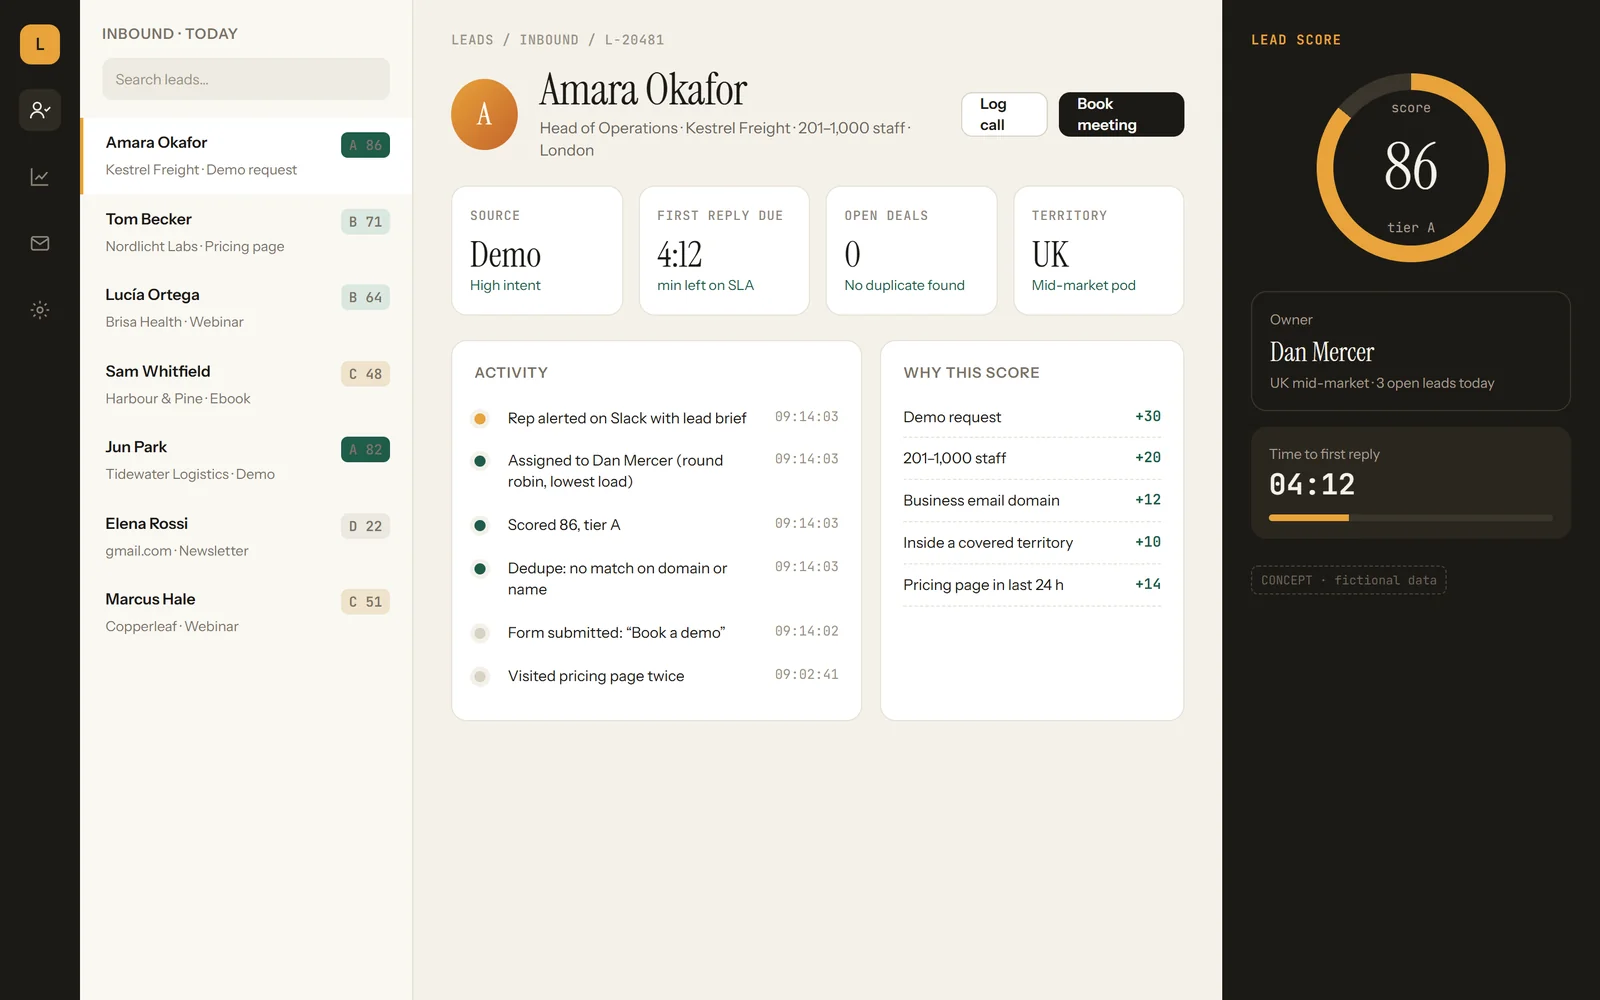
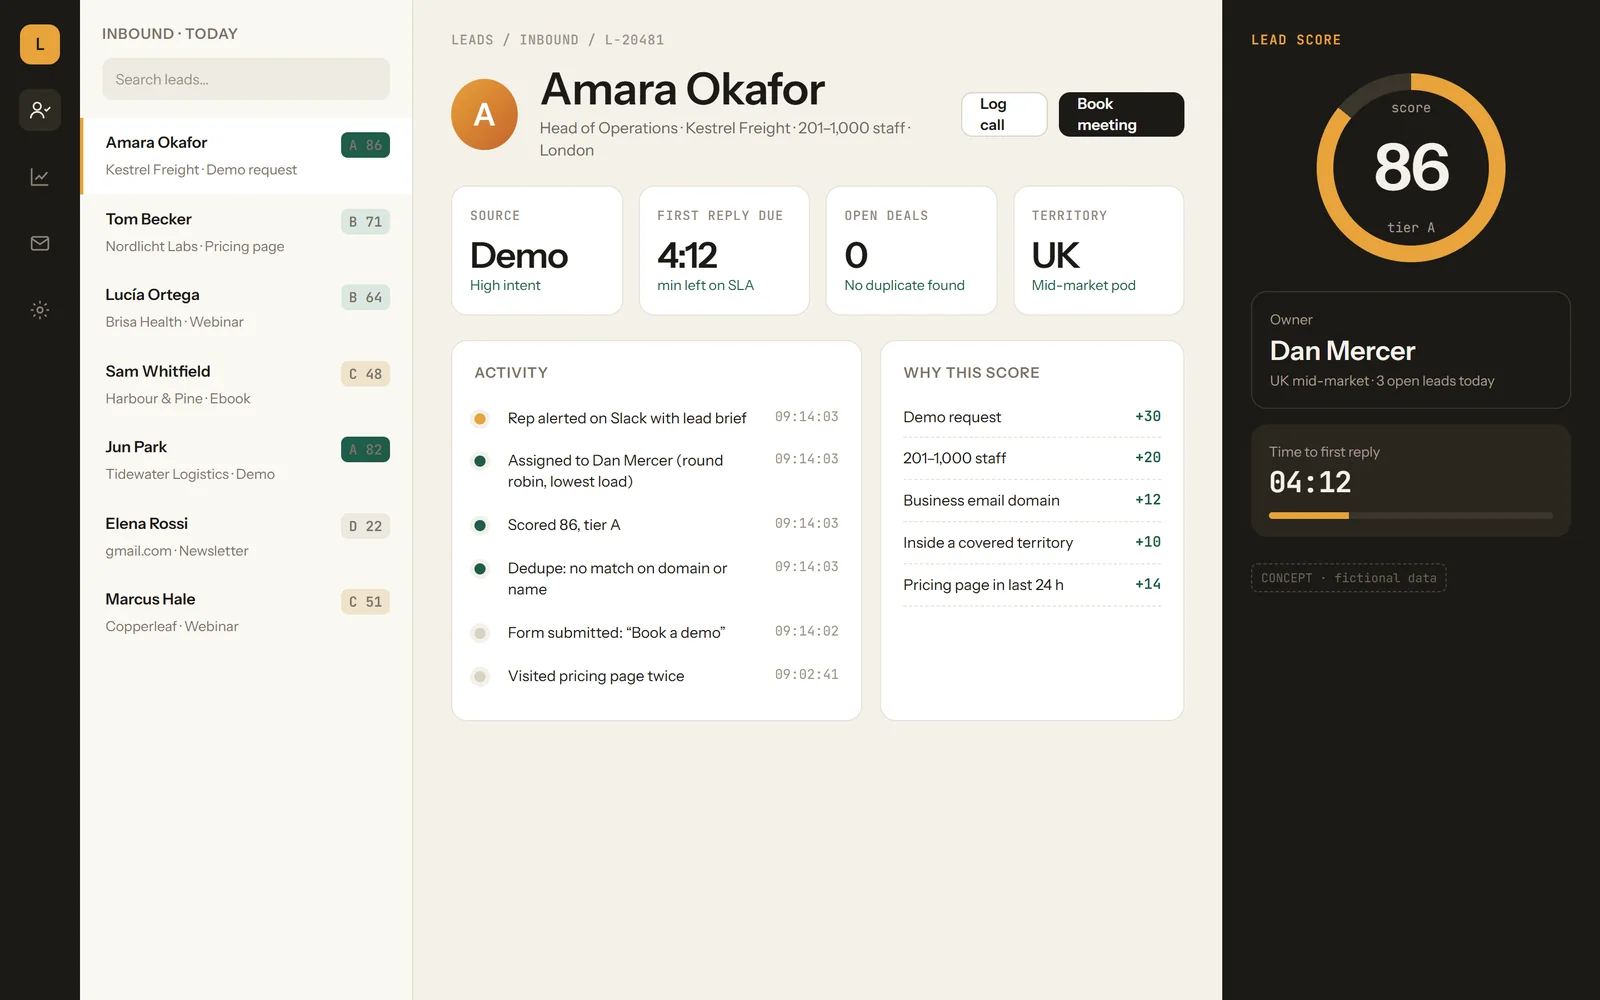
One modern sans font everywhere, GitHub button in the top bar
- Drop the serif accent font; accents are now a muted tone of the same sans
- Re-render the three UI concept screens without the serif
- GitHub button in the top bar (both pages) and in the hero; footer link stays

diff --git a/style.css b/style.css
@@ -1,7 +1,5 @@
 /* Ryno Jordaan — portfolio. Dark bento: charcoal, sand, lavender, terracotta. No framework. */
 @font-face{font-family:"Instrument Sans";src:url("fonts/InstrumentSans-normal.woff2") format("woff2");font-weight:400 700;font-display:swap}
-@font-face{font-family:"Instrument Serif";src:url("fonts/InstrumentSerif-normal.woff2") format("woff2");font-display:swap}
-@font-face{font-family:"Instrument Serif";font-style:italic;src:url("fonts/InstrumentSerif-italic.woff2") format("woff2");font-display:swap}
 @font-face{font-family:"JetBrains Mono";src:url("fonts/JetBrainsMono-normal.woff2") format("woff2");font-weight:400 700;font-display:swap}
 
 :root{
@@ -13,7 +11,6 @@
   --ok:#9fd8b5;
   --r:22px; --r-sm:14px; --gap:14px;
   --sans:"Instrument Sans",ui-sans-serif,system-ui,-apple-system,"Segoe UI",sans-serif;
-  --serif:"Instrument Serif",Georgia,serif;
   --mono:"JetBrains Mono",ui-monospace,"Cascadia Code",Consolas,monospace;
   --max:1240px;
   color-scheme:dark;
@@ -50,7 +47,8 @@ a{color:inherit}
 
 /* type */
 .eyebrow{font:500 .74rem/1.3 var(--mono);letter-spacing:.12em;text-transform:uppercase;color:var(--dim);margin:0}
-.serif{font-family:var(--serif);font-weight:400;font-style:italic;letter-spacing:0}
+.serif{font:inherit;color:var(--muted)}
+.t.sand .serif{color:var(--ink-muted)}
 h1,h2,h3{font-weight:500;letter-spacing:-.025em;margin:0}
 .sec{padding-block:clamp(3.5rem,8vw,6.5rem) 0}
 .sec-head{display:grid;gap:.9rem;margin-bottom:1.6rem;max-width:46rem}
@@ -96,7 +94,7 @@ h1,h2,h3{font-weight:500;letter-spacing:-.025em;margin:0}
 .status::before{content:"";width:7px;height:7px;border-radius:50%;background:var(--ok);box-shadow:0 0 0 0 rgba(159,216,181,.6);animation:ping 2.4s infinite}
 @keyframes ping{0%{box-shadow:0 0 0 0 rgba(159,216,181,.55)}70%{box-shadow:0 0 0 9px rgba(159,216,181,0)}100%{box-shadow:0 0 0 0 rgba(159,216,181,0)}}
 .intro h1{font-size:clamp(3.2rem,10vw,7rem);line-height:.88;letter-spacing:-.055em}
-.intro h1 .serif{letter-spacing:-.02em;color:var(--sand)}
+.intro h1 .serif{color:var(--sand)}
 .intro .role{font-size:clamp(1.15rem,2.3vw,1.5rem);line-height:1.25;margin:.9rem 0 0;letter-spacing:-.015em;max-width:30rem}
 .intro .role b{font-weight:500;color:var(--sand)}
 .intro .sub{color:var(--muted);margin:.8rem 0 0;max-width:34rem}
@@ -176,7 +174,7 @@ fieldset{border:0;margin:0;padding:0;min-width:0}
 
 .result{justify-content:space-between;gap:1rem;min-height:15rem}
 .result .who{display:flex;gap:.9rem;align-items:center}
-.result .av{width:3.4rem;height:3.4rem;border-radius:50%;background:var(--lav-ink);color:var(--lav);display:grid;place-items:center;font:400 1.6rem var(--serif);flex:none}
+.result .av{width:3.4rem;height:3.4rem;border-radius:50%;background:var(--lav-ink);color:var(--lav);display:grid;place-items:center;font:600 1.4rem var(--sans);flex:none}
 .result h3{font-size:clamp(1.5rem,3vw,2rem);line-height:1.05}
 .result .why{margin:0;font-size:.95rem;line-height:1.45}
 .timer{font:500 clamp(2.6rem,5.4vw,3.8rem)/1 var(--sans);letter-spacing:-.04em;font-variant-numeric:tabular-nums}
@@ -338,3 +336,8 @@ footer .wrap{display:flex;flex-wrap:wrap;justify-content:space-between;gap:1rem;
 @media (max-width:47.99rem){.result{min-height:0;gap:1.2rem}.stat{min-height:9rem}}
 .replist{grid-template-columns:1fr 1fr}
 .rep{min-width:0}.rep b,.rep span{overflow:hidden;text-overflow:ellipsis;white-space:nowrap}
+.bar nav a.gh{display:inline-flex;align-items:center;gap:.4rem;border:1px solid var(--line);color:var(--text)}
+.bar nav a.gh:hover{border-color:var(--sand)}
+@media (max-width:22rem){.bar nav a.gh span{display:none}}
+.mark span{white-space:nowrap}
+@media (max-width:30rem){.bar nav a[href$="#demo"]{display:none}.bar nav{gap:.4rem}}

diff --git a/index.html b/index.html
@@ -35,6 +35,7 @@
       <a href="#work">Work</a>
       <a href="#design">Design</a>
       <a href="#services">Services</a>
+      <a href="https://github.com/RynoJor" class="gh keep" rel="noopener"><svg viewBox="0 0 16 16" width="15" height="15" aria-hidden="true" fill="currentColor"><path d="M8 0C3.58 0 0 3.58 0 8c0 3.54 2.29 6.53 5.47 7.59.4.07.55-.17.55-.38 0-.19-.01-.82-.01-1.49-2.01.37-2.53-.49-2.69-.94-.09-.23-.48-.94-.82-1.13-.28-.15-.68-.52-.01-.53.63-.01 1.08.58 1.23.82.72 1.21 1.87.87 2.33.66.07-.52.28-.87.51-1.07-1.78-.2-3.64-.89-3.64-3.95 0-.87.31-1.59.82-2.15-.08-.2-.36-1.02.08-2.12 0 0 .67-.21 2.2.82.64-.18 1.32-.27 2-.27.68 0 1.36.09 2 .27 1.53-1.04 2.2-.82 2.2-.82.44 1.1.16 1.92.08 2.12.51.56.82 1.27.82 2.15 0 3.07-1.87 3.75-3.65 3.95.29.25.54.73.54 1.48 0 1.07-.01 1.93-.01 2.2 0 .21.15.46.55.38A8.013 8.013 0 0016 8c0-4.42-3.58-8-8-8z"/></svg><span>GitHub</span></a>
       <a href="#contact" class="hire">Contact</a>
     </nav>
   </div>
@@ -58,6 +59,7 @@
         <div class="btns">
           <a class="btn light" href="#demo">Try the lead router <span class="arr" aria-hidden="true">↓</span></a>
           <a class="btn" href="#work">See the work</a>
+          <a class="btn" href="https://github.com/RynoJor" rel="noopener"><svg viewBox="0 0 16 16" width="15" height="15" aria-hidden="true" fill="currentColor"><path d="M8 0C3.58 0 0 3.58 0 8c0 3.54 2.29 6.53 5.47 7.59.4.07.55-.17.55-.38 0-.19-.01-.82-.01-1.49-2.01.37-2.53-.49-2.69-.94-.09-.23-.48-.94-.82-1.13-.28-.15-.68-.52-.01-.53.63-.01 1.08.58 1.23.82.72 1.21 1.87.87 2.33.66.07-.52.28-.87.51-1.07-1.78-.2-3.64-.89-3.64-3.95 0-.87.31-1.59.82-2.15-.08-.2-.36-1.02.08-2.12 0 0 .67-.21 2.2.82.64-.18 1.32-.27 2-.27.68 0 1.36.09 2 .27 1.53-1.04 2.2-.82 2.2-.82.44 1.1.16 1.92.08 2.12.51.56.82 1.27.82 2.15 0 3.07-1.87 3.75-3.65 3.95.29.25.54.73.54 1.48 0 1.07-.01 1.93-.01 2.2 0 .21.15.46.55.38A8.013 8.013 0 0016 8c0-4.42-3.58-8-8-8z"/></svg> GitHub repos <span class="arr" aria-hidden="true">↗</span></a>
         </div>
       </div>
 

diff --git a/case-study.html b/case-study.html
@@ -33,6 +33,7 @@
       <a href="./#demo" class="keep">Demo</a>
       <a href="./#work">Work</a>
       <a href="case-study.html" aria-current="page">Case study</a>
+      <a href="https://github.com/RynoJor" class="gh keep" rel="noopener"><svg viewBox="0 0 16 16" width="15" height="15" aria-hidden="true" fill="currentColor"><path d="M8 0C3.58 0 0 3.58 0 8c0 3.54 2.29 6.53 5.47 7.59.4.07.55-.17.55-.38 0-.19-.01-.82-.01-1.49-2.01.37-2.53-.49-2.69-.94-.09-.23-.48-.94-.82-1.13-.28-.15-.68-.52-.01-.53.63-.01 1.08.58 1.23.82.72 1.21 1.87.87 2.33.66.07-.52.28-.87.51-1.07-1.78-.2-3.64-.89-3.64-3.95 0-.87.31-1.59.82-2.15-.08-.2-.36-1.02.08-2.12 0 0 .67-.21 2.2.82.64-.18 1.32-.27 2-.27.68 0 1.36.09 2 .27 1.53-1.04 2.2-.82 2.2-.82.44 1.1.16 1.92.08 2.12.51.56.82 1.27.82 2.15 0 3.07-1.87 3.75-3.65 3.95.29.25.54.73.54 1.48 0 1.07-.01 1.93-.01 2.2 0 .21.15.46.55.38A8.013 8.013 0 0016 8c0-4.42-3.58-8-8-8z"/></svg><span>GitHub</span></a>
       <a href="./#contact" class="hire">Contact</a>
     </nav>
   </div>
